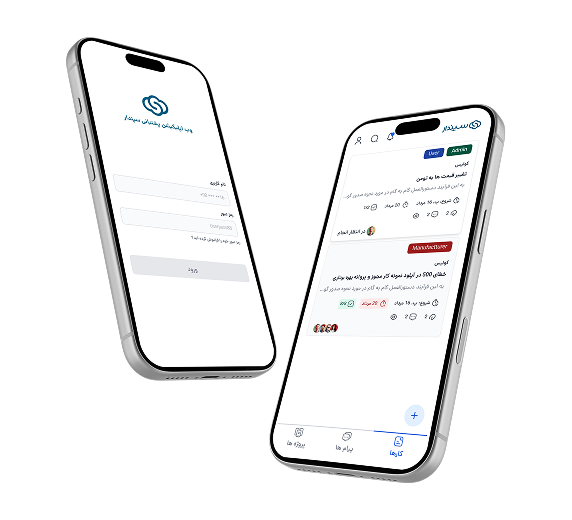
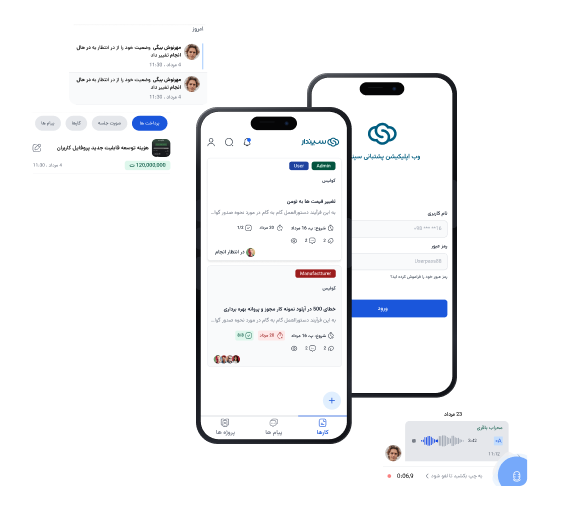
Updated the first project card image

Changed region(s): [[0.0594, 0.0308, 0.9213, 0.9538]]

diff --git a/index.html b/index.html
@@ -72,7 +72,7 @@
                         <p class="eyebrow">WEB REDESIGN · 2023</p>
                         <h2>Turning an unstructured page into a clear experience.</h2>
                         <p>A responsive landing page redesign focused on clearer content hierarchy, layout, and user
-                            flow.</p><span class="case-link">View case study <b>↗</b></span>
+                            flow.</p><span class="case-link">Coming soon <b>↗</b></span>
                     </div>
                    
                     <div class="visual responsive project-image">
